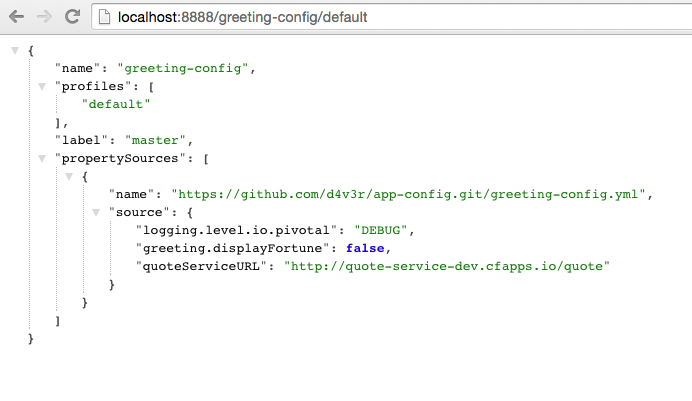
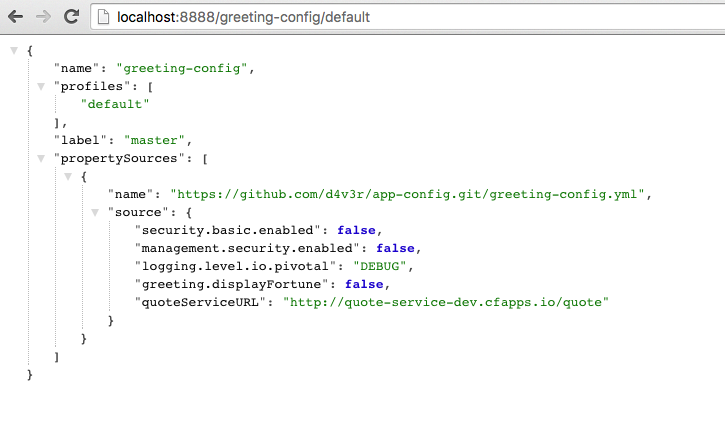
updating to use Boot 1.2.7 and SCS

diff --git a/lab-instructions/spring-cloud-config/spring-cloud-services.md b/lab-instructions/spring-cloud-config/spring-cloud-services.md
@@ -126,12 +126,12 @@ In this case, we are manually calling one of those endpoints (`/{application}/{p
 ### Set up `greeting-config`
 
 1) Review the following file: `$CLOUD_NATIVE_APP_LABS_HOME/greeting-config/pom.xml`
-By adding `spring-cloud-starter-config` to the classpath, this application will consume configuration from the config-server.  `greeting-config` is a config client.
+By adding `spring-cloud-services-starter-config-client` to the classpath, this application will consume configuration from the config-server.  `greeting-config` is a config client.
 
 ```xml
 <dependency>
-    <groupId>org.springframework.cloud</groupId>
-    <artifactId>spring-cloud-starter-config</artifactId>
+	<groupId>io.pivotal.spring.cloud</groupId>
+	<artifactId>spring-cloud-services-starter-config-client</artifactId>
 </dependency>
 ```
 
@@ -155,8 +155,17 @@ $ cd $CLOUD_NATIVE_APP_LABS_HOME/greeting-config
 $ mvn clean spring-boot:run
 ```
 
-4) Confirm the `greeting-config` app is up.  Browse to [http://localhost:8080](http://localhost:8080).  You should see a "Greetings!!!" message.  
+4) Confirm the `greeting-config` app is up.  Browse to [http://localhost:8080](http://localhost:8080).  You should be prompted to authenticate.  Why?  `spring-cloud-services-starter-config-client` has a dependency on [Spring Security](http://projects.spring.io/spring-security/).  Unless the given application has other security configuration, this will cause all application and actuator endpoints to be protected by HTTP Basic authentication.
 
+5) If no explicit username or password has been set then Spring Security will generate one for you.
+
+username: `user`
+
+password: You can find this in the terminal output.  Look for a log message similar to the following: `Using default security password: 90a3ef2a-4e98-4491-a528-a47a7162dd2a`.  Use this password to login.  
+
+***Note:*** Username and password can be explicitly set through the `security.user.name` and `security.user.password` configuration parameters.
+
+6) After logging in you should see the message "Greetings!!!".
 ![greeting-config](resources/images/greeting-config.png "greeting-config")
 
 ***What Just Happened?***
@@ -172,6 +181,33 @@ Located property source: CompositePropertySource [name='configService', property
 There is still no configuration in the git repo, but at this point we have everything wired (`greeting-config` → `config-server` → `app-config` repo) so we can add configuration parameters/values and see the effects in out client application `greeting-config`.
 
 Configuration parameters/values will be added as we move through the lab.
+
+7) Stop the `greeting-config` application
+
+### Unsecure the Endpoints
+
+For these labs we don't need Spring Security's default behavior of securing every endpoint.
+
+1) Edit your fork of the `app-config` repo.  Create a file called `greeting-config.yml`.  Add the content below to the file and push the changes back to GitHub.
+
+```yml
+security:
+  basic:
+    enabled: false # turn of securing our application endpoints
+
+management:
+  security:
+    enabled: false # turn of securing the actuator endpoints
+```
+
+2) Start the `greeting-config` application:
+
+```bash
+$ mvn clean spring-boot:run
+```
+
+3) Browse to [http://localhost:8080](http://localhost:8080).  You should no longer be prompted to authenticate.
+
 
 ### Changing Logging Levels
 
@@ -197,9 +233,17 @@ String getGreeting(Model model){
 We want to see these debug messages.  By default only log levels of `ERROR`, `WARN` and `INFO` will be logged. You will change the log level to `DEBUG` using
 configuration. All log output will be directed to `System.out` & `System.error` by default, so logs will be output to the terminal window(s).
 
-2) Edit your fork of the `app-config` repo.  Create a file called `greeting-config.yml`.  Add the content below to the file and push the changes back to GitHub.
+2) In your fork of the `app-config` repo.  Add the content below to the `greeting-config.yml` file and push the changes back to GitHub.
 ```yml
-logging:
+security:
+  basic:
+    enabled: false # turn of securing our application endpoints
+
+management:
+  security:
+    enabled: false # turn of securing the actuator endpoints
+
+logging: # <----New sections below
   level:
     io:
       pivotal: DEBUG
@@ -208,8 +252,9 @@ greeting:
   displayFortune: false
 
 quoteServiceURL: http://quote-service-dev.cfapps.io/quote
+
 ```
-This file has several configuration parameters that will be used throughout this lab.  For this exercise, we have set the log level for classes in the `io.pivotal` package to `DEBUG`.
+We have added several configuration parameters that will be used throughout this lab.  For this exercise, we have set the log level for classes in the `io.pivotal` package to `DEBUG`.
 
 3) While watching the `greeting-config` terminal, refresh the [http://localhost:8080](http://localhost:8080/) url.  Notice there are no `DEBUG` logs yet.
 
@@ -418,60 +463,71 @@ $ curl -X POST http://localhost:8080/refresh
 
 Configuration from `greeting-config.yml` was overridden by a configuration file that was more specific (`greeting-config-qa.yml`).
 
-### Deploy the `config-server` and `greeting-config` Apps to PCF
+### Deploy the `greeting-config` Application to PCF
 
-1) Package and deploy the `config-server` to PCF.  The `--random-route` flag will generate a random uri for the `config-server`.  Make note of it.  You will use it in the next step. Make sure you are targeting your PCF account and execute the following from
-the `config-server` directory:
 
-```bash
-$ mvn clean package
-$ cf push config-server -p target/config-server-0.0.1-SNAPSHOT.jar -m 512M --random-route
-```
-
-2) Create a user-provided service.  This service describes how to connect to your `config-server` application.  Make sure to use your config-server uri, not the literal below.  For the `uri` please specify `http://` and no trailing `/` at the end.  See example below.
-
-```bash
-$ cf cups config-server -p uri
-$ uri> http://config-server-sectarian-flasket.cfapps.io
-```
-
-3) Add the following to `$CLOUD_NATIVE_APP_LABS_HOME/greeting-config/src/main/resources/bootstrap.yml`.
-
-```yml
-spring:
-  application:
-    name: greeting-config
-  cloud:  # <-- ADD NEW SECTION
-    config:
-      uri: ${vcap.services.config-server.credentials.uri:http://localhost:8888}
-```
-When defining the `spring.cloud.config.uri`, our app will first look for an environment variable (`vcap.services.config-server.credentials.uri`). If it is not present, it will try to connect to the local `config-server`.
-
-4) Package the `greeting-config` application. Execute the following from the `greeting-config` directory:
+1) Package the `greeting-config` application. Execute the following from the `greeting-config` directory:
 
 ```bash
 $ mvn clean package
 ```
 
-5) Deploy the `greeting-config` application to PCF, without starting the application:
+2) Deploy the `greeting-config` application to PCF, without starting the application:
 
 ```bash
 $ cf push greeting-config -p target/greeting-config-0.0.1-SNAPSHOT.jar -m 512M --random-route --no-start
 ```
-6) Bind the `config-server` service to the `greeting-config` app. This will enable the `greeting-config` app to read
+
+3) Create a Config Server Service Instance
+
+Using Apps Manager do the following (for help review the [docs](http://docs.pivotal.io/spring-cloud-services/config-server/creating-an-instance.html)
+:
+
+a) Log into Apps Manager as a Space Developer. In the Marketplace, select Config Server for Pivotal Cloud Foundry.
+![marketplace](resources/images/1_marketplace.png "marketplace")
+
+b) Select the desired plan for the new service.
+![select plan](resources/images/2_select_plan.png "select plan")
+
+c) Name the service `config-server`. Click the Add button.
+![configure](resources/images/3_configure.png "configure")
+
+d) In the ***Services*** list, click the ***Manage*** link under the listing for the new service instance.
+![service successfully added](resources/images/4_service_successfully_added.png "service successfully added")
+
+e) Select a ***Configuration Source*** and enter your fork of the `app-config` repo.
+![dashboard](resources/images/dashboard.png "dashboard")
+
+f) The Config Server instance is now ready to be used.
+
+4) Bind the `config-server` service to the `greeting-config` app. This will enable the `greeting-config` app to read
 configuration values from the `config-server`.
 
 ```bash
 $ cf bind-service greeting-config config-server
 ```
 
-7) Start the `greeting-config` app. The proper environment variables will be set.  You can safely ignore the _TIP: Use 'cf restage' to ensure your env variable changes take effect_ message from the CLI.  Our app doesn't need to be restaged but just started.
+You can safely ignore the _TIP: Use 'cf restage' to ensure your env variable changes take effect_ message from the CLI.  Our app doesn't need to be restaged at this time.
+
+5) If using self signed certificates, set the CF_TARGET environment variable to API endpoint of your Elastic Runtime instance.  Make sure to use `https://` not `http://`.
+
+```bash
+cf set-env greeting-config CF_TARGET <your api endpoint>
+```
+
+You can safely ignore the _TIP: Use 'cf restage' to ensure your env variable changes take effect_ message from the CLI.  Our app doesn't need to be restaged at this time.
+
+***NOTE***
+
+All communication between Spring Cloud Services components are made through HTTPS. If you are on an environment that uses self-signed certs, the Java SSL trust store will not have those certificates.  By adding the CF_TARGET environment variable a trusted domain is added to the Java trust store.  Eventually ERS will drop the self-signed certs into every app container, and removing the need to set the CF_TARGET environment variable.
+
+6) Start the `greeting-config` app. The proper environment variables will be set.
 
 ```bash
 $ cf start greeting-config
 ```
 
-8) Browse to your `greeting-config` application.  Are your configuration settings that were set when developing locally mirrored on PCF?
+7) Browse to your `greeting-config` application.  Are your configuration settings that were set when developing locally mirrored on PCF?
 
 * Is the log level for `io.pivotal` package set to `DEBUG`?  Yes, this can be confirmed with `cf logs` command while refreshing the `greeting-config` `/` endpoint (`http://<your-random-greeting-config-url/`).
 * Is `greeting-config` app displaying the fortune?  Yes, this can be confirmed by visiting the `greeting-config` `/` endpoint.

diff --git a/README.md b/README.md
@@ -1,6 +1,6 @@
 # cloud native app labs
 
-Labs written using PCF & Spring Cloud OSS.
+Labs written using PCF & Spring Cloud Services.
 
 Local system [requirements](lab-instructions/requirements.md) or use the [Windows VM](lab-instructions/windows-vm.md)
 
@@ -17,7 +17,7 @@ Local system [requirements](lab-instructions/requirements.md) or use the [Window
 0. [Spring Data Rest](lab-instructions/spring-boot/boot-rest.md)
 
 ### Spring Cloud
-1. [Spring Cloud Config](lab-instructions/spring-cloud-config/sc-oss.md)
+1. [Spring Cloud Config](lab-instructions/spring-cloud-config/spring-cloud-services.md)
 1. [Spring Cloud Netflix: Service Discovery](lab-instructions/spring-cloud-netflix-service-discovery/sc-oss.md)
 1. [Spring Cloud Netflix: Client Side Load Balancing](lab-instructions/spring-cloud-netflix-client-side-load-balancer/sc-oss.md)
 1. [Spring Cloud Netflix: Circuit Breaking](lab-instructions/spring-cloud-netflix-circuit-breaking/sc-oss.md)
